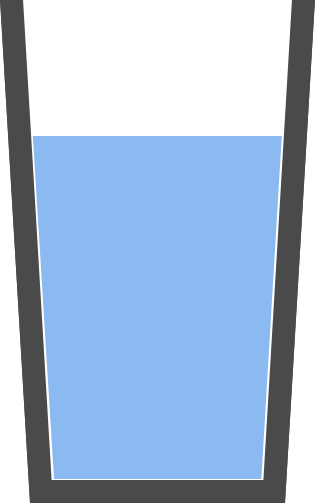
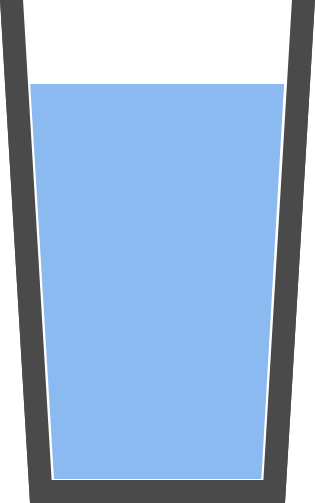
water view

diff --git a/ReactNativeApp/app/routes/WaterPlant/waterPlant.js b/ReactNativeApp/app/routes/WaterPlant/waterPlant.js
@@ -2,7 +2,6 @@ import React, { Component } from 'react';
 import { View, Text, StyleSheet, Image, Slider, ScrollView } from 'react-native';
 import { images, commonStyles, I18n} from '../../config';
 import Button from 'apsl-react-native-button';
-import { PlantStatus } from '../../components';
 import { connect } from 'react-redux';
 import autobind from 'autobind-decorator';
 
@@ -20,28 +19,70 @@ class WaterPlantView extends Component {
     this.state = {
       amount: 50,
     };
+    this.state = {
+      imageURL: images.glass1
+    };
   }
 
   render() {
     return (
       <View style={styles.container}>
         <ScrollView>
+          <Image style={styles.image} source={this.state.imageURL}/>
+
           <View style={styles.innerContainer}>
-            <PlantStatus plant={this.props.plant} style={styles.moistureText}/>
               <View
                 style={styles.sliderImages}>
-                <Image
-                  source={images.cactus}
-                  style={styles.sliderIcon}/>
+                <Text>
+                  less
+                </Text>
                 <Text>
                   {this.state.amount} ml
                 </Text>
-                <Image
-                  style={styles.sliderIcon}
-                  source={images.lotus}/>
+                <Text>
+                  more
+                </Text>
               </View>
               <Slider style={styles.slider}
-                onValueChange={(amount) => this.setState({amount})}
+                onValueChange={(amount) => {
+                  let tempImage;
+                  if(amount > 180){
+                    tempImage = images.glass10;
+                  }
+                  else if(amount > 160){
+                    tempImage = images.glass9;
+                  }
+                  else if(amount > 140){
+                    tempImage = images.glass8;
+                  }
+                  else if(amount > 120){
+                    tempImage = images.glass7;
+                  }
+                  else if(amount > 100){
+                    tempImage = images.glass6;
+                  }
+                  else if(amount > 80){
+                    tempImage = images.glass5;
+                  }
+                  else if(amount > 60){
+                    tempImage = images.glass4;
+                  }
+                  else if(amount > 40){
+                    tempImage = images.glass3;
+                  }
+                  else if(amount > 20){
+                    tempImage = images.glass2;
+                  }
+                  else if(amount < 20){
+                    tempImage = images.glass1;
+                  }
+                  return(this.setState({
+                    amount: amount,
+                    imageURL: tempImage
+                  })
+                  );
+                }
+              }
                 minimumValue={1.0}
                 maximumValue={200.0}
                 step={1}
@@ -83,22 +124,19 @@ const styles = StyleSheet.create({
     justifyContent: 'center',
     alignItems: 'center',
   },
+  image:{
+    height: 167,
+    width: 105,
+    alignSelf: 'center',
+  },
   innerContainer: {
     borderRadius: 10,
     margin: 60,
     flex:1,
   },
-  moistureText:{
-    textAlign: 'left',
-    padding: 20,
-  },
   sliderImages: {
     flexDirection: 'row',
     justifyContent: 'space-between'
-  },
-  sliderIcon: {
-    width: 50,
-    height: 50
   },
   slider: {
     width: 250,

diff --git a/ReactNativeApp/app/config/images.js b/ReactNativeApp/app/config/images.js
@@ -3,7 +3,17 @@ const images = {
   cactus: require('../images/cactus.png'),
   lotus: require('../images/lotus.png'),
   defaultPlantImage: require('../images/default_plant.jpg'),
-  startIcon: require('../images/raindrop.png')
+  startIcon: require('../images/raindrop.png'),
+  glass1: require('../images/Glass1.png'),
+  glass2: require('../images/Glass2.png'),
+  glass3: require('../images/Glass3.png'),
+  glass4: require('../images/Glass4.png'),
+  glass5: require('../images/Glass5.png'),
+  glass6: require('../images/Glass6.png'),
+  glass7: require('../images/Glass7.png'),
+  glass8: require('../images/Glass8.png'),
+  glass9: require('../images/Glass9.png'),
+  glass10: require('../images/Glass10.png'),
 };
 
 export { images };
